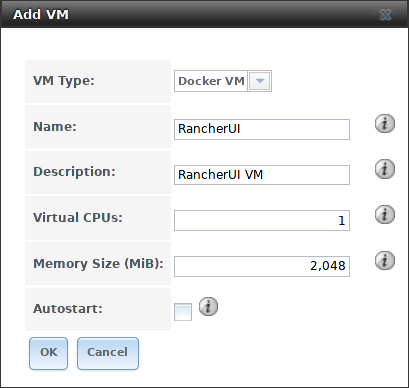
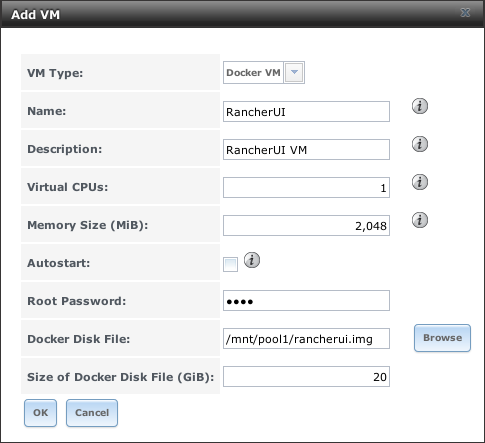
49851 docs changes: - Update vms-add-rancher.png - Small updates to text in vms.rst. - HTML build test: no issues.

diff --git a/userguide/vms.rst b/userguide/vms.rst
@@ -460,7 +460,8 @@ Create the Docker VM
 :numref:`Figure %s <vms_add_docker_fig>` shows the window that appears
 after going to the
 :menuselection:`VMs`
-page and clicking :guilabel:`Add VM`.
+page, clicking :guilabel:`Add VM`, and selecting *Docker VM* as the
+:guilabel:`VM Type`.
 
 .. _vms_add_docker_fig:
 
@@ -514,24 +515,26 @@ page and clicking :guilabel:`Add VM`.
    |                    |                | with that name. Example: :samp:`/mnt/pool1/rancherui.img`                          |
    |                    |                |                                                                                    |
    +--------------------+----------------+------------------------------------------------------------------------------------+
-   | Size of Docker     | integer        | Allocate storage size in GiB for the new raw file. Enter *20* at minimum.          |
-   | Disk File          |                |                                                                                    |
+   | Size of Docker     | integer        | Allocate storage size in GiB for the new raw file. *20* is the minimum             |
+   | Disk File          |                | recommendation.                                                                    |
+   |                    |                |                                                                                    |
    +--------------------+----------------+------------------------------------------------------------------------------------+
 
 
-Recommendation for the Docker VM:
+Recommendations for the Docker VM:
 
-* Enter *Rancher UI VM* for the :guilabel:`Description`
+* Enter *Rancher UI VM* for the :guilabel:`Description`.
 * Leave the number of :guilabel:`Virtual CPUs` at *1*.
 * Enter *2048* for the :guilabel:`Memory Size`.
+* Leave *20* as the :guilabel:`Size of Docker Disk File`.
 
 Click :guilabel:`OK` to create the virtual machine.
 
 To make any changes to the raw file after creating the Docker VM,
 click on the :guilabel:`Devices` button for the VM to show the devices
 attached to that VM. Click on the *RAW* device to select it, then click
-:guilabel:`Edit`. :numref:`Figure %s <vms_rancher_storage_fig>` shows the
-options for editing the Docker VM raw file options.
+:guilabel:`Edit`. :numref:`Figure %s <vms_rancher_storage_fig>` shows
+the options for editing the Docker VM raw file options.
 
 .. _vms_rancher_storage_fig:
 
